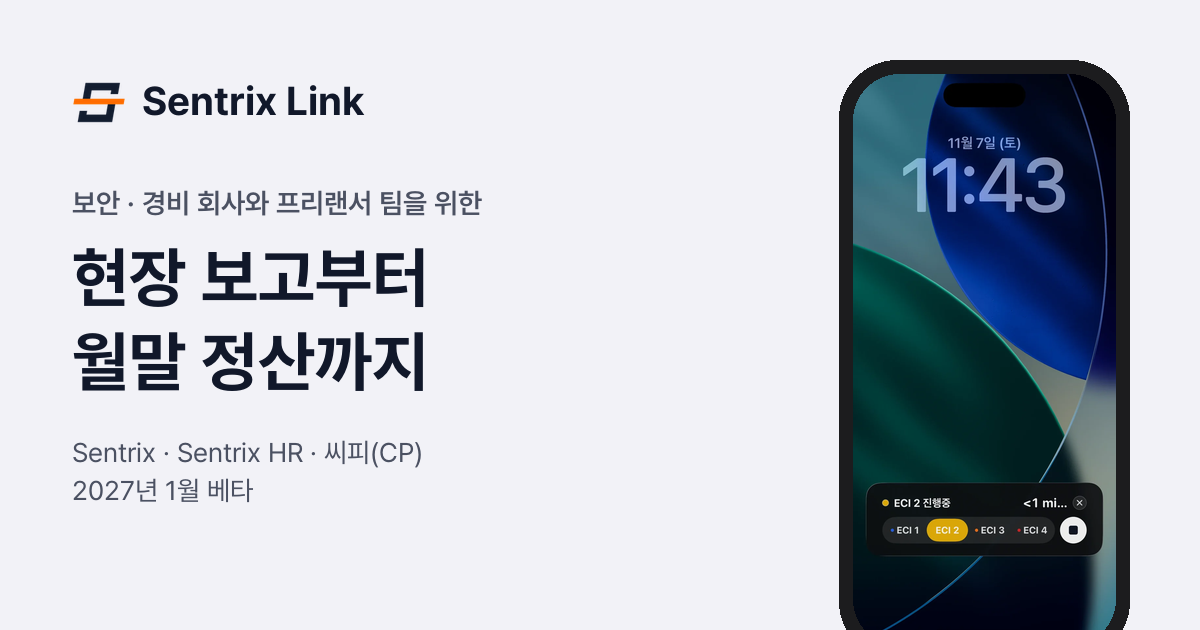
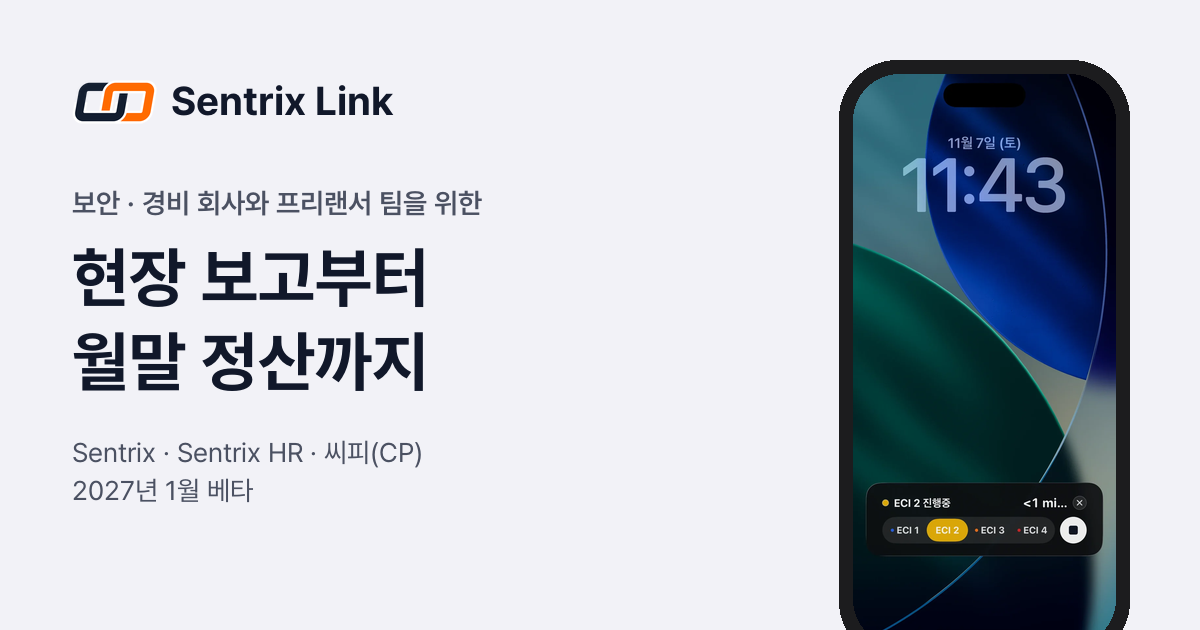
Publish Sentrix Link site 2026-11-28 20:50 KST

Changed region(s): [[0.0617, 0.1206, 0.3392, 0.2111]]

diff --git a/index.html b/index.html
@@ -8,7 +8,9 @@
 <link rel="canonical" href="https://sentrixlink.kr/">
 <meta property="og:type" content="website"><meta property="og:site_name" content="Sentrix Link"><meta property="og:title" content="Sentrix Link — 현장 보고부터 월말 정산까지"><meta property="og:description" content="보안·경비 회사와 프리랜서 팀을 위한 Sentrix · Sentrix HR · 씨피(CP). 현장 보고 한 건이 본사 상황실에 바로 닿고, 월말 정산까지 재입력 없이 이어집니다. 2027년 1월 베타."><meta property="og:url" content="https://sentrixlink.kr/"><meta property="og:image" content="https://sentrixlink.kr/static/img/og.png"><meta property="og:image:width" content="1200"><meta property="og:image:height" content="630"><meta name="twitter:card" content="summary_large_image">
 <meta name="theme-color" content="#F2F2F7">
-<link rel="icon" href="/static/img/sentrix-mark.png">
+<link rel="icon" href="/static/img/link-mark.svg" type="image/svg+xml">
+<link rel="icon" href="/static/img/link-favicon-64.png" type="image/png" sizes="64x64">
+<link rel="apple-touch-icon" href="/static/img/link-favicon-180.png">
 <link rel="preload" href="/static/fonts/Pretendard-Bold.subset.woff2" as="font" type="font/woff2" crossorigin>
 <link rel="preload" as="image" href="/static/img/app/ios__ios-inc-q2-eci.webp"><link rel="preload" as="image" href="/static/img/app/web__sx-inc-room.webp"><link rel="preload" as="image" href="/static/img/app/ios__ios-home-duty.webp">
 <link rel="stylesheet" href="/static/css/site.css?v=4988bc04"><link rel="stylesheet" href="/static/css/home.css?v=487120a2"><link rel="stylesheet" href="/static/css/cp.css?v=2401a1d4"><link rel="stylesheet" href="/static/css/bc.css?v=b9b27456"><link rel="stylesheet" href="/static/css/try.css?v=3b3ff48e"><link rel="stylesheet" href="/static/css/v2.css?v=64ec943d">
@@ -19,7 +21,7 @@
 <a class="skip" href="#main">본문으로 건너뛰기</a>
 <header class="site-header">
 <div class="site-header__in">
-<a class="brand" href="/"><img src="/static/img/sentrix-mark.png" alt="" width="27" height="24">Sentrix Link</a>
+<a class="brand" href="/"><img src="/static/img/link-mark.svg" alt="" width="47" height="24">Sentrix Link</a>
 <nav class="gnav" aria-label="주 메뉴"><a href="/sentrix/">Sentrix</a><a href="/sentrix-hr/">Sentrix HR</a><a href="/cp/">씨피(CP)</a><a href="/security/">보안과 데이터</a></nav>
 <div class="hactions">
 <a class="btn btn--secondary" href="https://intro.sentrixlink.kr/#home" target="_blank" rel="noopener">제품설명서 보기<span class="sr-only"> (새 창)</span></a>

diff --git a/sentrix-hr/index.html b/sentrix-hr/index.html
@@ -8,7 +8,9 @@
 <link rel="canonical" href="https://sentrixlink.kr/sentrix-hr/">
 <meta property="og:type" content="website"><meta property="og:site_name" content="Sentrix Link"><meta property="og:title" content="Sentrix HR — 매일 바뀌는 인력도 월말 정산에 그대로 | Sentrix Link"><meta property="og:description" content="Sentrix HR은 협력업체가 링크로 바로 넣는 지원근무자 명단, 경비원 명부로 직원 등록, 월간 근무표, 출퇴근과 예외, 휴가와 잔업, 월말 정산 Excel과 근무상황기록부 · 경비원 색인부까지 한곳에서 다룹니다. 근무표 Excel을 올리면 반영하기 전에 바뀌는 칸을 먼저 보여 주고, 팀장이 고친 최종본을 본사가 받습니다."><meta property="og:url" content="https://sentrixlink.kr/sentrix-hr/"><meta property="og:image" content="https://sentrixlink.kr/static/img/og.png"><meta property="og:image:width" content="1200"><meta property="og:image:height" content="630"><meta name="twitter:card" content="summary_large_image">
 <meta name="theme-color" content="#F2F2F7">
-<link rel="icon" href="/static/img/sentrix-mark.png">
+<link rel="icon" href="/static/img/link-mark.svg" type="image/svg+xml">
+<link rel="icon" href="/static/img/link-favicon-64.png" type="image/png" sizes="64x64">
+<link rel="apple-touch-icon" href="/static/img/link-favicon-180.png">
 <link rel="preload" href="/static/fonts/Pretendard-Bold.subset.woff2" as="font" type="font/woff2" crossorigin>
 
 <link rel="stylesheet" href="/static/css/site.css?v=4988bc04"><link rel="stylesheet" href="/static/css/product.css?v=63a327fb"><link rel="stylesheet" href="/static/css/bc.css?v=b9b27456"><link rel="stylesheet" href="/static/css/try.css?v=3b3ff48e"><link rel="stylesheet" href="/static/css/v2.css?v=64ec943d">
@@ -19,7 +21,7 @@
 <a class="skip" href="#main">본문으로 건너뛰기</a>
 <header class="site-header">
 <div class="site-header__in">
-<a class="brand" href="/"><img src="/static/img/sentrix-mark.png" alt="" width="27" height="24">Sentrix Link</a>
+<a class="brand" href="/"><img src="/static/img/link-mark.svg" alt="" width="47" height="24">Sentrix Link</a>
 <nav class="gnav" aria-label="주 메뉴"><a href="/sentrix/">Sentrix</a><a href="/sentrix-hr/" aria-current="page">Sentrix HR</a><a href="/cp/">씨피(CP)</a><a href="/security/">보안과 데이터</a></nav>
 <div class="hactions">
 <a class="btn btn--secondary" href="https://intro.sentrixlink.kr/#home" target="_blank" rel="noopener">제품설명서 보기<span class="sr-only"> (새 창)</span></a>

diff --git a/cp/index.html b/cp/index.html
@@ -8,7 +8,9 @@
 <link rel="canonical" href="https://sentrixlink.kr/cp/">
 <meta property="og:type" content="website"><meta property="og:site_name" content="Sentrix Link"><meta property="og:title" content="씨피(CP) — 급한 자리도 실시간으로 채용 | Sentrix Link"><meta property="og:description" content="씨피(CP)는 급구 공고, 지원, 확정, 근무 후 평가까지 이어지는 보안 · 행사 인력 채용 앱입니다. 지난 근무의 별점과 근무 횟수로 지원자를 비교해 뽑고, 근무할수록 평가와 신뢰지수가 쌓입니다. 2027년 5월 베타 예정."><meta property="og:url" content="https://sentrixlink.kr/cp/"><meta property="og:image" content="https://sentrixlink.kr/static/img/og.png"><meta property="og:image:width" content="1200"><meta property="og:image:height" content="630"><meta name="twitter:card" content="summary_large_image">
 <meta name="theme-color" content="#F2F2F7">
-<link rel="icon" href="/static/img/sentrix-mark.png">
+<link rel="icon" href="/static/img/link-mark.svg" type="image/svg+xml">
+<link rel="icon" href="/static/img/link-favicon-64.png" type="image/png" sizes="64x64">
+<link rel="apple-touch-icon" href="/static/img/link-favicon-180.png">
 <link rel="preload" href="/static/fonts/Pretendard-Bold.subset.woff2" as="font" type="font/woff2" crossorigin>
 
 <link rel="stylesheet" href="/static/css/site.css?v=4988bc04"><link rel="stylesheet" href="/static/css/product.css?v=63a327fb"><link rel="stylesheet" href="/static/css/cp.css?v=2401a1d4"><link rel="stylesheet" href="/static/css/bc.css?v=b9b27456"><link rel="stylesheet" href="/static/css/try.css?v=3b3ff48e"><link rel="stylesheet" href="/static/css/v2.css?v=64ec943d">
@@ -19,7 +21,7 @@
 <a class="skip" href="#main">본문으로 건너뛰기</a>
 <header class="site-header">
 <div class="site-header__in">
-<a class="brand" href="/"><img src="/static/img/sentrix-mark.png" alt="" width="27" height="24">Sentrix Link</a>
+<a class="brand" href="/"><img src="/static/img/link-mark.svg" alt="" width="47" height="24">Sentrix Link</a>
 <nav class="gnav" aria-label="주 메뉴"><a href="/sentrix/">Sentrix</a><a href="/sentrix-hr/">Sentrix HR</a><a href="/cp/" aria-current="page">씨피(CP)</a><a href="/security/">보안과 데이터</a></nav>
 <div class="hactions">
 <a class="btn btn--secondary" href="https://intro.sentrixlink.kr/#home" target="_blank" rel="noopener">제품설명서 보기<span class="sr-only"> (새 창)</span></a>

diff --git a/sentrix/index.html b/sentrix/index.html
@@ -8,7 +8,9 @@
 <link rel="canonical" href="https://sentrixlink.kr/sentrix/">
 <meta property="og:type" content="website"><meta property="og:site_name" content="Sentrix Link"><meta property="og:title" content="Sentrix — 카톡 · 전화 대신 누르면 끝나는 보고 | Sentrix Link"><meta property="og:description" content="Sentrix는 사건 보고, 요청과 승인, 외부지원 인력, 사건 통계까지 보안·경비 현장 운영을 한곳에서 처리합니다. 잠금화면에서 올린 보고를 본사 상황실에서 바로 받습니다."><meta property="og:url" content="https://sentrixlink.kr/sentrix/"><meta property="og:image" content="https://sentrixlink.kr/static/img/og.png"><meta property="og:image:width" content="1200"><meta property="og:image:height" content="630"><meta name="twitter:card" content="summary_large_image">
 <meta name="theme-color" content="#F2F2F7">
-<link rel="icon" href="/static/img/sentrix-mark.png">
+<link rel="icon" href="/static/img/link-mark.svg" type="image/svg+xml">
+<link rel="icon" href="/static/img/link-favicon-64.png" type="image/png" sizes="64x64">
+<link rel="apple-touch-icon" href="/static/img/link-favicon-180.png">
 <link rel="preload" href="/static/fonts/Pretendard-Bold.subset.woff2" as="font" type="font/woff2" crossorigin>
 
 <link rel="stylesheet" href="/static/css/site.css?v=4988bc04"><link rel="stylesheet" href="/static/css/product.css?v=63a327fb"><link rel="stylesheet" href="/static/css/bc.css?v=b9b27456"><link rel="stylesheet" href="/static/css/try.css?v=3b3ff48e"><link rel="stylesheet" href="/static/css/v2.css?v=64ec943d">
@@ -19,7 +21,7 @@
 <a class="skip" href="#main">본문으로 건너뛰기</a>
 <header class="site-header">
 <div class="site-header__in">
-<a class="brand" href="/"><img src="/static/img/sentrix-mark.png" alt="" width="27" height="24">Sentrix Link</a>
+<a class="brand" href="/"><img src="/static/img/link-mark.svg" alt="" width="47" height="24">Sentrix Link</a>
 <nav class="gnav" aria-label="주 메뉴"><a href="/sentrix/" aria-current="page">Sentrix</a><a href="/sentrix-hr/">Sentrix HR</a><a href="/cp/">씨피(CP)</a><a href="/security/">보안과 데이터</a></nav>
 <div class="hactions">
 <a class="btn btn--secondary" href="https://intro.sentrixlink.kr/#home" target="_blank" rel="noopener">제품설명서 보기<span class="sr-only"> (새 창)</span></a>

diff --git a/privacy/index.html b/privacy/index.html
@@ -8,7 +8,9 @@
 <link rel="canonical" href="https://sentrixlink.kr/privacy/">
 <meta property="og:type" content="website"><meta property="og:site_name" content="Sentrix Link"><meta property="og:title" content="홈페이지 개인정보처리방침 — Sentrix Link"><meta property="og:description" content="{{company_name}}는 「개인정보 보호법」 제30조에 따라 Sentrix Link 홈페이지에서 받는 개인정보와 정보주체의 권리를 아래와 같이 안내합니다. Sentrix, Sentrix HR, 씨피를 쓰는 분은 위에서 해당 서비스를 고르세요."><meta property="og:url" content="https://sentrixlink.kr/privacy/"><meta property="og:image" content="https://sentrixlink.kr/static/img/og.png"><meta property="og:image:width" content="1200"><meta property="og:image:height" content="630"><meta name="twitter:card" content="summary_large_image">
 <meta name="theme-color" content="#F2F2F7">
-<link rel="icon" href="/static/img/sentrix-mark.png">
+<link rel="icon" href="/static/img/link-mark.svg" type="image/svg+xml">
+<link rel="icon" href="/static/img/link-favicon-64.png" type="image/png" sizes="64x64">
+<link rel="apple-touch-icon" href="/static/img/link-favicon-180.png">
 <link rel="preload" href="/static/fonts/Pretendard-Bold.subset.woff2" as="font" type="font/woff2" crossorigin>
 
 <link rel="stylesheet" href="/static/css/site.css?v=4988bc04"><link rel="stylesheet" href="/static/css/privacy.css?v=ec763e1e">
@@ -19,7 +21,7 @@
 <a class="skip" href="#main">본문으로 건너뛰기</a>
 <header class="site-header">
 <div class="site-header__in">
-<a class="brand" href="/"><img src="/static/img/sentrix-mark.png" alt="" width="27" height="24">Sentrix Link</a>
+<a class="brand" href="/"><img src="/static/img/link-mark.svg" alt="" width="47" height="24">Sentrix Link</a>
 <nav class="gnav" aria-label="주 메뉴"><a href="/sentrix/">Sentrix</a><a href="/sentrix-hr/">Sentrix HR</a><a href="/cp/">씨피(CP)</a><a href="/security/">보안과 데이터</a></nav>
 <div class="hactions">
 <a class="btn btn--secondary" href="https://intro.sentrixlink.kr/#home" target="_blank" rel="noopener">제품설명서 보기<span class="sr-only"> (새 창)</span></a>

diff --git a/privacy/cp/index.html b/privacy/cp/index.html
@@ -8,7 +8,9 @@
 <link rel="canonical" href="https://sentrixlink.kr/privacy/cp/">
 <meta property="og:type" content="website"><meta property="og:site_name" content="Sentrix Link"><meta property="og:title" content="씨피 개인정보처리방침 — Sentrix Link"><meta property="og:description" content="{{company_name}}는 「개인정보 보호법」 제30조에 따라 행사 · 경호 · 경비 일자리 서비스 씨피(CP)에서 처리하는 개인정보와 정보주체의 권리를 아래와 같이 안내합니다."><meta property="og:url" content="https://sentrixlink.kr/privacy/cp/"><meta property="og:image" content="https://sentrixlink.kr/static/img/og.png"><meta property="og:image:width" content="1200"><meta property="og:image:height" content="630"><meta name="twitter:card" content="summary_large_image">
 <meta name="theme-color" content="#F2F2F7">
-<link rel="icon" href="/static/img/sentrix-mark.png">
+<link rel="icon" href="/static/img/link-mark.svg" type="image/svg+xml">
+<link rel="icon" href="/static/img/link-favicon-64.png" type="image/png" sizes="64x64">
+<link rel="apple-touch-icon" href="/static/img/link-favicon-180.png">
 <link rel="preload" href="/static/fonts/Pretendard-Bold.subset.woff2" as="font" type="font/woff2" crossorigin>
 
 <link rel="stylesheet" href="/static/css/site.css?v=4988bc04"><link rel="stylesheet" href="/static/css/stub.css?v=d10a4d26">
@@ -19,7 +21,7 @@
 <a class="skip" href="#main">본문으로 건너뛰기</a>
 <header class="site-header">
 <div class="site-header__in">
-<a class="brand" href="/"><img src="/static/img/sentrix-mark.png" alt="" width="27" height="24">Sentrix Link</a>
+<a class="brand" href="/"><img src="/static/img/link-mark.svg" alt="" width="47" height="24">Sentrix Link</a>
 <nav class="gnav" aria-label="주 메뉴"><a href="/sentrix/">Sentrix</a><a href="/sentrix-hr/">Sentrix HR</a><a href="/cp/">씨피(CP)</a><a href="/security/">보안과 데이터</a></nav>
 <div class="hactions">
 <a class="btn btn--secondary" href="https://intro.sentrixlink.kr/#home" target="_blank" rel="noopener">제품설명서 보기<span class="sr-only"> (새 창)</span></a>

diff --git a/privacy/sentrix-hr/index.html b/privacy/sentrix-hr/index.html
@@ -8,7 +8,9 @@
 <link rel="canonical" href="https://sentrixlink.kr/privacy/sentrix-hr/">
 <meta property="og:type" content="website"><meta property="og:site_name" content="Sentrix Link"><meta property="og:title" content="Sentrix HR 개인정보처리방침 — Sentrix Link"><meta property="og:description" content="{{company_name}}는 「개인정보 보호법」 제30조에 따라 Sentrix HR 서비스에서 처리하는 개인정보와 정보주체의 권리를 아래와 같이 안내합니다."><meta property="og:url" content="https://sentrixlink.kr/privacy/sentrix-hr/"><meta property="og:image" content="https://sentrixlink.kr/static/img/og.png"><meta property="og:image:width" content="1200"><meta property="og:image:height" content="630"><meta name="twitter:card" content="summary_large_image">
 <meta name="theme-color" content="#F2F2F7">
-<link rel="icon" href="/static/img/sentrix-mark.png">
+<link rel="icon" href="/static/img/link-mark.svg" type="image/svg+xml">
+<link rel="icon" href="/static/img/link-favicon-64.png" type="image/png" sizes="64x64">
+<link rel="apple-touch-icon" href="/static/img/link-favicon-180.png">
 <link rel="preload" href="/static/fonts/Pretendard-Bold.subset.woff2" as="font" type="font/woff2" crossorigin>
 
 <link rel="stylesheet" href="/static/css/site.css?v=4988bc04"><link rel="stylesheet" href="/static/css/stub.css?v=d10a4d26">
@@ -19,7 +21,7 @@
 <a class="skip" href="#main">본문으로 건너뛰기</a>
 <header class="site-header">
 <div class="site-header__in">
-<a class="brand" href="/"><img src="/static/img/sentrix-mark.png" alt="" width="27" height="24">Sentrix Link</a>
+<a class="brand" href="/"><img src="/static/img/link-mark.svg" alt="" width="47" height="24">Sentrix Link</a>
 <nav class="gnav" aria-label="주 메뉴"><a href="/sentrix/">Sentrix</a><a href="/sentrix-hr/">Sentrix HR</a><a href="/cp/">씨피(CP)</a><a href="/security/">보안과 데이터</a></nav>
 <div class="hactions">
 <a class="btn btn--secondary" href="https://intro.sentrixlink.kr/#home" target="_blank" rel="noopener">제품설명서 보기<span class="sr-only"> (새 창)</span></a>

diff --git a/privacy/sentrix/index.html b/privacy/sentrix/index.html
@@ -8,7 +8,9 @@
 <link rel="canonical" href="https://sentrixlink.kr/privacy/sentrix/">
 <meta property="og:type" content="website"><meta property="og:site_name" content="Sentrix Link"><meta property="og:title" content="Sentrix 개인정보처리방침 — Sentrix Link"><meta property="og:description" content="{{company_name}}는 「개인정보 보호법」 제30조에 따라 Sentrix 서비스에서 처리하는 개인정보와 정보주체의 권리를 아래와 같이 안내합니다."><meta property="og:url" content="https://sentrixlink.kr/privacy/sentrix/"><meta property="og:image" content="https://sentrixlink.kr/static/img/og.png"><meta property="og:image:width" content="1200"><meta property="og:image:height" content="630"><meta name="twitter:card" content="summary_large_image">
 <meta name="theme-color" content="#F2F2F7">
-<link rel="icon" href="/static/img/sentrix-mark.png">
+<link rel="icon" href="/static/img/link-mark.svg" type="image/svg+xml">
+<link rel="icon" href="/static/img/link-favicon-64.png" type="image/png" sizes="64x64">
+<link rel="apple-touch-icon" href="/static/img/link-favicon-180.png">
 <link rel="preload" href="/static/fonts/Pretendard-Bold.subset.woff2" as="font" type="font/woff2" crossorigin>
 
 <link rel="stylesheet" href="/static/css/site.css?v=4988bc04"><link rel="stylesheet" href="/static/css/stub.css?v=d10a4d26">
@@ -19,7 +21,7 @@
 <a class="skip" href="#main">본문으로 건너뛰기</a>
 <header class="site-header">
 <div class="site-header__in">
-<a class="brand" href="/"><img src="/static/img/sentrix-mark.png" alt="" width="27" height="24">Sentrix Link</a>
+<a class="brand" href="/"><img src="/static/img/link-mark.svg" alt="" width="47" height="24">Sentrix Link</a>
 <nav class="gnav" aria-label="주 메뉴"><a href="/sentrix/">Sentrix</a><a href="/sentrix-hr/">Sentrix HR</a><a href="/cp/">씨피(CP)</a><a href="/security/">보안과 데이터</a></nav>
 <div class="hactions">
 <a class="btn btn--secondary" href="https://intro.sentrixlink.kr/#home" target="_blank" rel="noopener">제품설명서 보기<span class="sr-only"> (새 창)</span></a>

diff --git a/location/index.html b/location/index.html
@@ -8,7 +8,9 @@
 <link rel="canonical" href="https://sentrixlink.kr/location/">
 <meta property="og:type" content="website"><meta property="og:site_name" content="Sentrix Link"><meta property="og:title" content="위치기반서비스 이용약관 — Sentrix Link"><meta property="og:description" content="{{company_name}}가 Sentrix, Sentrix HR, 씨피에서 위치를 언제, 왜 받고, 누구에게 보여 주며, 언제 지우는지 정한 약관입니다."><meta property="og:url" content="https://sentrixlink.kr/location/"><meta property="og:image" content="https://sentrixlink.kr/static/img/og.png"><meta property="og:image:width" content="1200"><meta property="og:image:height" content="630"><meta name="twitter:card" content="summary_large_image">
 <meta name="theme-color" content="#F2F2F7">
-<link rel="icon" href="/static/img/sentrix-mark.png">
+<link rel="icon" href="/static/img/link-mark.svg" type="image/svg+xml">
+<link rel="icon" href="/static/img/link-favicon-64.png" type="image/png" sizes="64x64">
+<link rel="apple-touch-icon" href="/static/img/link-favicon-180.png">
 <link rel="preload" href="/static/fonts/Pretendard-Bold.subset.woff2" as="font" type="font/woff2" crossorigin>
 
 <link rel="stylesheet" href="/static/css/site.css?v=4988bc04"><link rel="stylesheet" href="/static/css/stub.css?v=d10a4d26">
@@ -19,7 +21,7 @@
 <a class="skip" href="#main">본문으로 건너뛰기</a>
 <header class="site-header">
 <div class="site-header__in">
-<a class="brand" href="/"><img src="/static/img/sentrix-mark.png" alt="" width="27" height="24">Sentrix Link</a>
+<a class="brand" href="/"><img src="/static/img/link-mark.svg" alt="" width="47" height="24">Sentrix Link</a>
 <nav class="gnav" aria-label="주 메뉴"><a href="/sentrix/">Sentrix</a><a href="/sentrix-hr/">Sentrix HR</a><a href="/cp/">씨피(CP)</a><a href="/security/">보안과 데이터</a></nav>
 <div class="hactions">
 <a class="btn btn--secondary" href="https://intro.sentrixlink.kr/#home" target="_blank" rel="noopener">제품설명서 보기<span class="sr-only"> (새 창)</span></a>

diff --git a/contact/index.html b/contact/index.html
@@ -8,7 +8,9 @@
 <link rel="canonical" href="https://sentrixlink.kr/contact/">
 <meta property="og:type" content="website"><meta property="og:site_name" content="Sentrix Link"><meta property="og:title" content="도입 문의 — Sentrix Link"><meta property="og:description" content="Sentrix와 Sentrix HR의 시연, 견적, 도입 일정을 상담합니다. 적어 주신 이메일로 답장드립니다."><meta property="og:url" content="https://sentrixlink.kr/contact/"><meta property="og:image" content="https://sentrixlink.kr/static/img/og.png"><meta property="og:image:width" content="1200"><meta property="og:image:height" content="630"><meta name="twitter:card" content="summary_large_image">
 <meta name="theme-color" content="#F2F2F7">
-<link rel="icon" href="/static/img/sentrix-mark.png">
+<link rel="icon" href="/static/img/link-mark.svg" type="image/svg+xml">
+<link rel="icon" href="/static/img/link-favicon-64.png" type="image/png" sizes="64x64">
+<link rel="apple-touch-icon" href="/static/img/link-favicon-180.png">
 <link rel="preload" href="/static/fonts/Pretendard-Bold.subset.woff2" as="font" type="font/woff2" crossorigin>
 
 <link rel="stylesheet" href="/static/css/site.css?v=4988bc04"><link rel="stylesheet" href="/static/css/contact.css?v=14333aef">
@@ -19,7 +21,7 @@
 <a class="skip" href="#main">본문으로 건너뛰기</a>
 <header class="site-header">
 <div class="site-header__in">
-<a class="brand" href="/"><img src="/static/img/sentrix-mark.png" alt="" width="27" height="24">Sentrix Link</a>
+<a class="brand" href="/"><img src="/static/img/link-mark.svg" alt="" width="47" height="24">Sentrix Link</a>
 <nav class="gnav" aria-label="주 메뉴"><a href="/sentrix/">Sentrix</a><a href="/sentrix-hr/">Sentrix HR</a><a href="/cp/">씨피(CP)</a><a href="/security/">보안과 데이터</a></nav>
 <div class="hactions">
 <a class="btn btn--secondary" href="https://intro.sentrixlink.kr/#home" target="_blank" rel="noopener">제품설명서 보기<span class="sr-only"> (새 창)</span></a>

diff --git a/security/index.html b/security/index.html
@@ -8,7 +8,9 @@
 <link rel="canonical" href="https://sentrixlink.kr/security/">
 <meta property="og:type" content="website"><meta property="og:site_name" content="Sentrix Link"><meta property="og:title" content="보안과 데이터 — Sentrix Link"><meta property="og:description" content="Sentrix와 Sentrix HR에서 보는 범위, 로그인 기기, 위치 정보를 다루는 방식."><meta property="og:url" content="https://sentrixlink.kr/security/"><meta property="og:image" content="https://sentrixlink.kr/static/img/og.png"><meta property="og:image:width" content="1200"><meta property="og:image:height" content="630"><meta name="twitter:card" content="summary_large_image">
 <meta name="theme-color" content="#F2F2F7">
-<link rel="icon" href="/static/img/sentrix-mark.png">
+<link rel="icon" href="/static/img/link-mark.svg" type="image/svg+xml">
+<link rel="icon" href="/static/img/link-favicon-64.png" type="image/png" sizes="64x64">
+<link rel="apple-touch-icon" href="/static/img/link-favicon-180.png">
 <link rel="preload" href="/static/fonts/Pretendard-Bold.subset.woff2" as="font" type="font/woff2" crossorigin>
 
 <link rel="stylesheet" href="/static/css/site.css?v=4988bc04"><link rel="stylesheet" href="/static/css/stub.css?v=d10a4d26">
@@ -19,7 +21,7 @@
 <a class="skip" href="#main">본문으로 건너뛰기</a>
 <header class="site-header">
 <div class="site-header__in">
-<a class="brand" href="/"><img src="/static/img/sentrix-mark.png" alt="" width="27" height="24">Sentrix Link</a>
+<a class="brand" href="/"><img src="/static/img/link-mark.svg" alt="" width="47" height="24">Sentrix Link</a>
 <nav class="gnav" aria-label="주 메뉴"><a href="/sentrix/">Sentrix</a><a href="/sentrix-hr/">Sentrix HR</a><a href="/cp/">씨피(CP)</a><a href="/security/" aria-current="page">보안과 데이터</a></nav>
 <div class="hactions">
 <a class="btn btn--secondary" href="https://intro.sentrixlink.kr/#home" target="_blank" rel="noopener">제품설명서 보기<span class="sr-only"> (새 창)</span></a>

diff --git a/company/index.html b/company/index.html
@@ -8,7 +8,9 @@
 <link rel="canonical" href="https://sentrixlink.kr/company/">
 <meta property="og:type" content="website"><meta property="og:site_name" content="Sentrix Link"><meta property="og:title" content="회사 소개 — Sentrix Link"><meta property="og:description" content="Sentrix, Sentrix HR, 씨피(CP)를 만드는 NID와 대표, 베타 일정을 소개합니다."><meta property="og:url" content="https://sentrixlink.kr/company/"><meta property="og:image" content="https://sentrixlink.kr/static/img/og.png"><meta property="og:image:width" content="1200"><meta property="og:image:height" content="630"><meta name="twitter:card" content="summary_large_image">
 <meta name="theme-color" content="#F2F2F7">
-<link rel="icon" href="/static/img/sentrix-mark.png">
+<link rel="icon" href="/static/img/link-mark.svg" type="image/svg+xml">
+<link rel="icon" href="/static/img/link-favicon-64.png" type="image/png" sizes="64x64">
+<link rel="apple-touch-icon" href="/static/img/link-favicon-180.png">
 <link rel="preload" href="/static/fonts/Pretendard-Bold.subset.woff2" as="font" type="font/woff2" crossorigin>
 
 <link rel="stylesheet" href="/static/css/site.css?v=4988bc04"><link rel="stylesheet" href="/static/css/stub.css?v=d10a4d26">
@@ -19,7 +21,7 @@
 <a class="skip" href="#main">본문으로 건너뛰기</a>
 <header class="site-header">
 <div class="site-header__in">
-<a class="brand" href="/"><img src="/static/img/sentrix-mark.png" alt="" width="27" height="24">Sentrix Link</a>
+<a class="brand" href="/"><img src="/static/img/link-mark.svg" alt="" width="47" height="24">Sentrix Link</a>
 <nav class="gnav" aria-label="주 메뉴"><a href="/sentrix/">Sentrix</a><a href="/sentrix-hr/">Sentrix HR</a><a href="/cp/">씨피(CP)</a><a href="/security/">보안과 데이터</a></nav>
 <div class="hactions">
 <a class="btn btn--secondary" href="https://intro.sentrixlink.kr/#home" target="_blank" rel="noopener">제품설명서 보기<span class="sr-only"> (새 창)</span></a>
